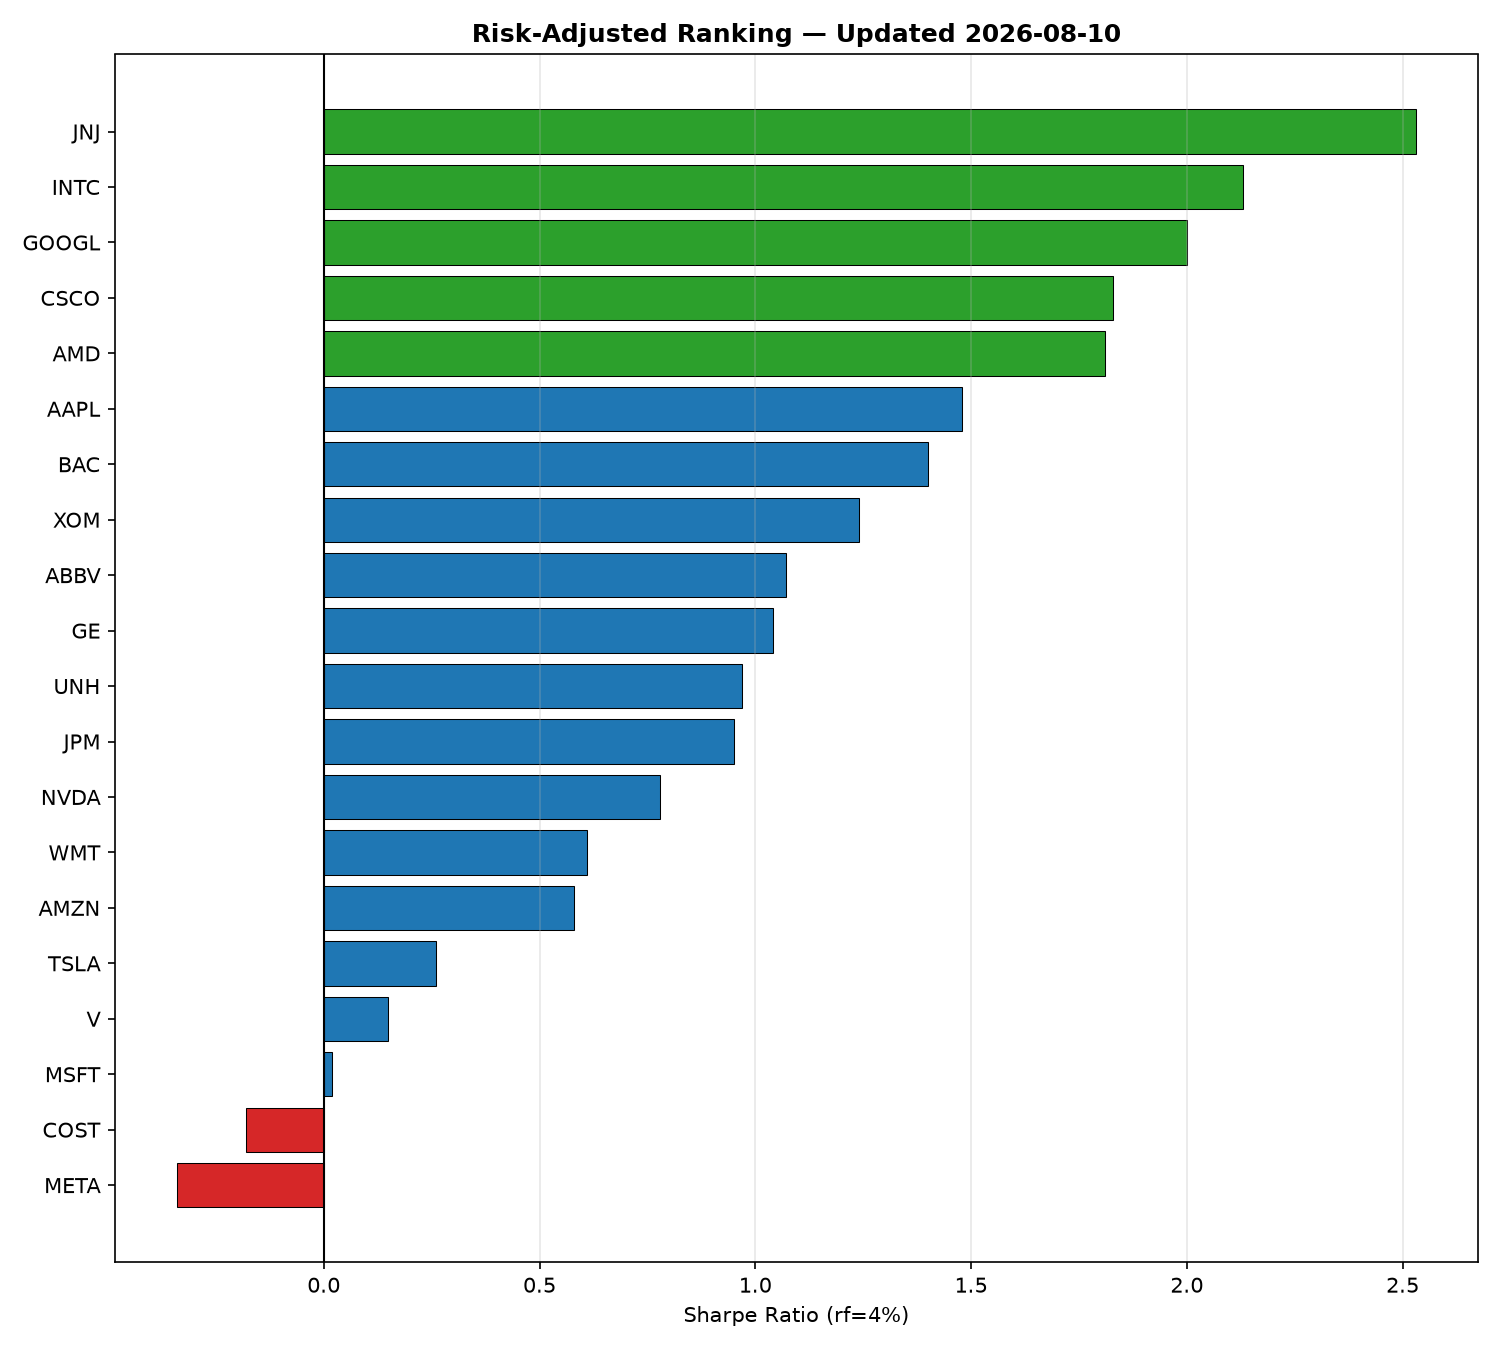
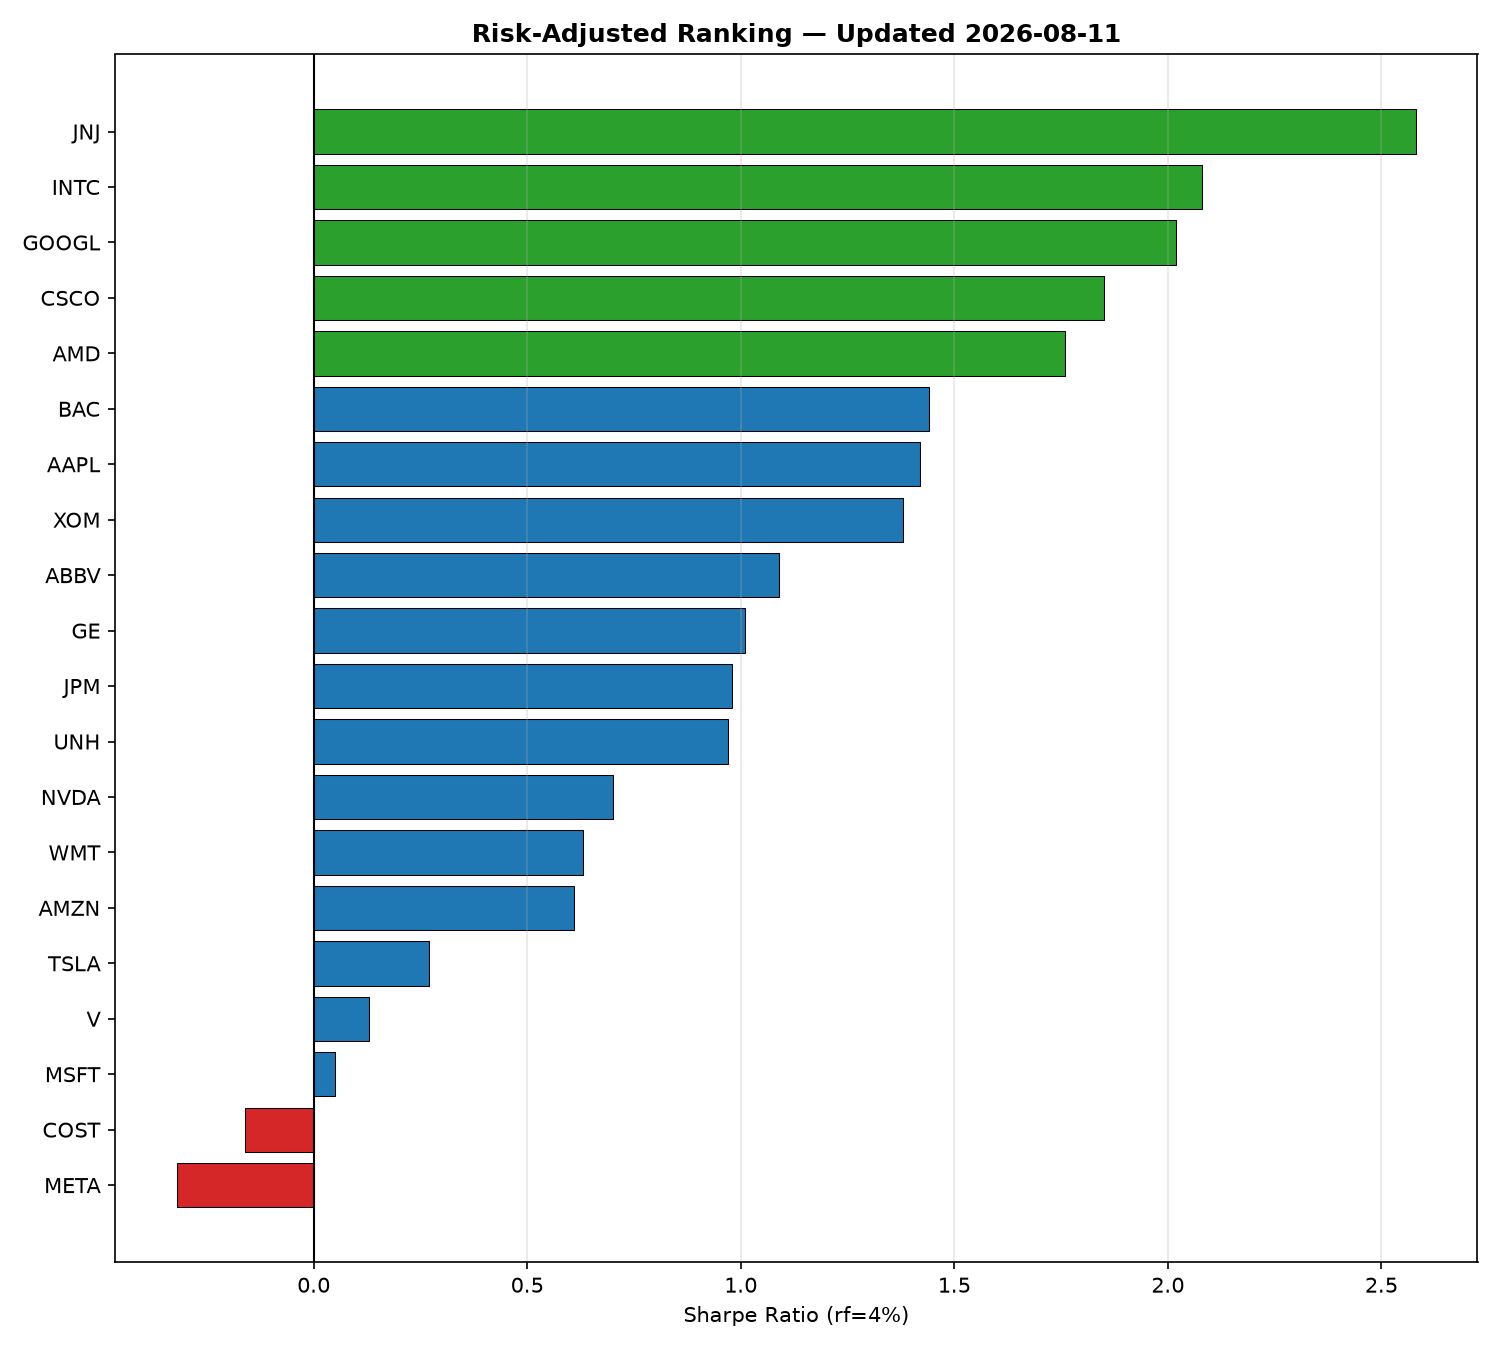
Automated daily update: prices, metrics, and charts

diff --git a/SNAPSHOT.md b/SNAPSHOT.md
@@ -1,9 +1,9 @@
-# Daily Risk Snapshot — 2026-08-07
+# Daily Risk Snapshot — 2026-08-10
 
-**Best mover:** TSLA (+2.83%)
-**Worst mover:** V (-2.15%)
-**Top risk-adjusted performer (trailing window):** JNJ (Sharpe 2.53)
+**Best mover:** XOM (+4.41%)
+**Worst mover:** INTC (-4.06%)
+**Top risk-adjusted performer (trailing window):** JNJ (Sharpe 2.58)
 
-**No new anomaly flags today.**
+**⚠ Newly anomalous today:** XOM — return moved more than 2 std. deviations from its own 20-day trailing mean.
 
 _Auto-generated by `scripts/daily_snapshot.py` via GitHub Actions._
